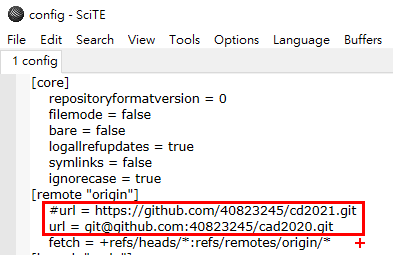
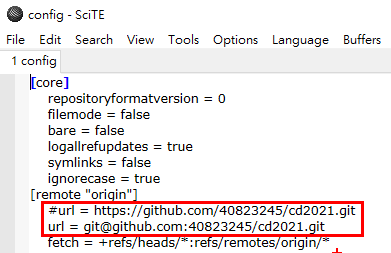
fix page

diff --git a/content/tipuesearch_content.js b/content/tipuesearch_content.js
@@ -1,1 +1,1 @@
-var tipuesearch = {"pages": [{'title': 'About', 'text': '倉儲: https://github.com/40823245/cd2021 \n 二人小組:40823245、40823251 \n', 'tags': '', 'url': 'About.html'}, {'title': 'WORKS', 'text': '', 'tags': '', 'url': 'WORKS.html'}, {'title': '筆記', 'text': '2019~2021所用到的指令、步驟等', 'tags': '', 'url': '筆記.html'}, {'title': '建立網頁', 'text': '打開start_ipv4.bat 確認版本 \n \n \n \n tmp新增git_ref資料夾並在裡面新增git_config.txt git_config.txt內容為git config --global http.proxy http://[2001:288:6004:17::69]:3128 在home_ipv4新增.gitconfig .gitconfig內容為 [http] #proxy = http://[2001:288:6004:17::69]:3128 登入github帳號 新增cd2021 \n \n \n 輸入指令(創資料夾) \n \n 進到cd2021，輸入指令 \n \n 進到cmsimde→up_dir，複製全部(ctrl+A→ctrl+C) \n \n 貼到cd2021，會有重複的檔案選擇第3個 \n \n \n 進到cmsimde \n \n 打pip install flask、pip install flask_cors、pip install lxml、pip install bs4、pip install markdown、pip install pelican、pip install leo指令 載完後輸入python wsgi.py 打開9443，登入(login)輸入密碼(admin) 點config更改title(40823245 cd2021) 自己的學號 做編輯，然後save→generate_pages 進到cd2021 git add . git config user.name "40823245"\xa0 \xa0 \xa0 \xa0 自己的學號 git config user.gmail "40823245@gm.nfu.edu.tw"\xa0 \xa0 \xa0 \xa0 自己的信箱 git commit -m "變更所做的標題" git push(學號和密碼) 到倉儲，點setting \n \n 往下到github pages，更改成main→save \n \n 回到倉儲看是否有出現黃球和綠勾', 'tags': '', 'url': '建立網頁.html'}, {'title': '9443', 'text': '\n 先打指令到cmsimde資料夾 \n 在執行python wsgi.py指令 \n 網址搜尋https://localhost:9443/ \n 或複製黑窗最後一行的網址 \n \n 案login登入→密碼admin', 'tags': '', 'url': '9443.html'}, {'title': '8444', 'text': '先到cd2021資料夾找到http-server.py檔案 \n \n 使用白窗開啟http-server.py \n 點選Tools→go \n', 'tags': '', 'url': '8444.html'}, {'title': 'ssh', 'text': '點選資料夾的Portablegit →bin→sh.exe \n \n 輸入ssh-keygen -t rsa -b 4096 -C "40823245" \n 請自行改成自己的學號 \n 案enter →輸入/y/tmp/id_rsa→案2次enter \n \n 下載putty_home、GitExtensions (請自行更改路徑) \n 將start_ipv4.bat移到白窗\xa0 並新增\xa0 \n set GIT_HOME=%Disk%:\\Portablegit\\bin\\\nset GIT_SSH=%Disk%:\\putty\\plink.exe \n \n 打開.git資料夾，把config移到白窗 \n 如沒有.git資料夾 打開隱藏的項目 \n \n 新增[remote "origin"]裡的url = git@github.com:40823245/cad2020.git \n \n file→save \n 打開putty資料夾的puttygen.exe \n 點load，找到id_rsa \n \n 案是→Save private key→案是→輸入學號(存.ppk檔) \n 打開putty.exe \n \n 若沒有github.com，在Host Name和Save Sessions打 github.com案Save \n \n 設定proxy(使用自家網路、手機網路請選None) \n 看你的網路連到哪一台 就打一樣的proxy \n \n 打開SSH裡面的Auth \n 選擇你所生產的金鑰檔案(.ppk) \n 回到session點選save再open \n \n 在home_ipv4新增.ssh資料夾 \n ProxyCommand y:/putty/plink.exe github.com %h %p\n  \nHost github.com\n    User git\n    Port 22\n    Hostname github.com\n  \n    TCPKeepAlive yes\n    IdentitiesOnly yes \n 將上面的指令複製到白窗並另存config \n 到倉儲網頁新增金鑰(右上Settings) \n \n 點New SSH key \n 到tmp找到id_rsa.pub並用白窗開啟，複製內容到Key \n 並確認學號 \n \n 案Add SSH key', 'tags': '', 'url': 'ssh.html'}, {'title': '上傳', 'text': '', 'tags': '', 'url': '上傳.html'}, {'title': 'Zoomit', 'text': '', 'tags': '', 'url': 'Zoomit.html'}]};
+var tipuesearch = {"pages": [{'title': 'About', 'text': '倉儲: https://github.com/40823245/cd2021 \n 二人小組:40823245、40823251 \n', 'tags': '', 'url': 'About.html'}, {'title': 'WORKS', 'text': '', 'tags': '', 'url': 'WORKS.html'}, {'title': '筆記', 'text': '2019~2021所用到的指令、步驟等', 'tags': '', 'url': '筆記.html'}, {'title': '建立網頁', 'text': '打開start_ipv4.bat 確認版本 \n \n \n \n tmp新增git_ref資料夾並在裡面新增git_config.txt git_config.txt內容為git config --global http.proxy http://[2001:288:6004:17::69]:3128 在home_ipv4新增.gitconfig .gitconfig內容為 [http] #proxy = http://[2001:288:6004:17::69]:3128 登入github帳號 新增cd2021 \n \n \n 輸入指令(創資料夾) \n \n 進到cd2021，輸入指令 \n \n 進到cmsimde→up_dir，複製全部(ctrl+A→ctrl+C) \n \n 貼到cd2021，會有重複的檔案選擇第3個 \n \n \n 進到cmsimde \n \n 打pip install flask、pip install flask_cors、pip install lxml、pip install bs4、pip install markdown、pip install pelican、pip install leo指令 載完後輸入python wsgi.py 打開9443，登入(login)輸入密碼(admin) 點config更改title(40823245 cd2021) 自己的學號 做編輯，然後save→generate_pages 進到cd2021 git add . git config user.name "40823245"\xa0 \xa0 \xa0 \xa0 自己的學號 git config user.gmail "40823245@gm.nfu.edu.tw"\xa0 \xa0 \xa0 \xa0 自己的信箱 git commit -m "變更所做的標題" git push(學號和密碼) 到倉儲，點setting \n \n 往下到github pages，更改成main→save \n \n 回到倉儲看是否有出現黃球和綠勾', 'tags': '', 'url': '建立網頁.html'}, {'title': '9443', 'text': '\n 先打指令到cmsimde資料夾 \n 在執行python wsgi.py指令 \n 網址搜尋https://localhost:9443/ \n 或複製黑窗最後一行的網址 \n \n 案login登入→密碼admin', 'tags': '', 'url': '9443.html'}, {'title': '8444', 'text': '先到cd2021資料夾找到http-server.py檔案 \n \n 使用白窗開啟http-server.py \n 點選Tools→go \n', 'tags': '', 'url': '8444.html'}, {'title': 'ssh', 'text': '點選資料夾的Portablegit →bin→sh.exe \n \n 輸入ssh-keygen -t rsa -b 4096 -C "40823245" \n 請自行改成自己的學號 \n 案enter →輸入/y/tmp/id_rsa→案2次enter \n \n 下載putty_home、GitExtensions (請自行更改路徑) \n 將start_ipv4.bat移到白窗\xa0 並新增\xa0 \n set GIT_HOME=%Disk%:\\Portablegit\\bin\\\nset GIT_SSH=%Disk%:\\putty\\plink.exe \n \n 打開.git資料夾，把config移到白窗 \n 如沒有.git資料夾 打開隱藏的項目 \n \n 新增[remote "origin"]裡的url = git@github.com:40823245/cd2021.git \n \n file→save \n 打開putty資料夾的puttygen.exe \n 點load，找到id_rsa \n \n 案是→Save private key→案是→輸入學號(存.ppk檔) \n 打開putty.exe \n \n 若沒有github.com，在Host Name和Save Sessions打 github.com案Save \n \n 設定proxy(使用自家網路、手機網路請選None) \n 看你的網路連到哪一台 就打一樣的proxy \n \n 打開SSH裡面的Auth \n 選擇你所生產的金鑰檔案(.ppk) \n 回到session點選save再open \n \n 在home_ipv4新增.ssh資料夾 \n ProxyCommand y:/putty/plink.exe github.com %h %p\n  \nHost github.com\n    User git\n    Port 22\n    Hostname github.com\n  \n    TCPKeepAlive yes\n    IdentitiesOnly yes \n 將上面的指令複製到白窗並另存config \n 到倉儲網頁新增金鑰(右上Settings) \n \n 點New SSH key \n 到tmp找到id_rsa.pub並用白窗開啟，複製內容到Key \n 並確認學號 \n \n 案Add SSH key', 'tags': '', 'url': 'ssh.html'}, {'title': '上傳', 'text': '', 'tags': '', 'url': '上傳.html'}, {'title': 'Zoomit', 'text': '', 'tags': '', 'url': 'Zoomit.html'}]};

diff --git a/config/content_backup.htm b/config/content_backup.htm
@@ -39,5 +39,54 @@
 <h4>使用白窗開啟http-server.py</h4>
 <h4>點選Tools→go</h4>
 <p><img alt="" height="350" src="/images/8444-1.png" width="500"/></p><h2>ssh</h2>
-<h2>上傳</h2>
+<h4><span>點選資料夾的Portablegit</span><span>→bin→sh.exe</span></h4>
+<p><span><img alt="" height="300" src="/images/ssh.png" width="600"/></span></p>
+<h4>輸入ssh-keygen -t rsa -b 4096 -C "40823245"</h4>
+<h4><span style="color: #ff0000;">請自行改成自己的學號</span></h4>
+<h4>案enter<span>→輸入/y/tmp/id_rsa→案2次enter</span></h4>
+<p><span><img alt="" height="450" src="/images/ssh-1.png" width="600"/></span></p>
+<h4>下載putty_home、GitExtensions<span style="color: #ff0000;">(請自行更改路徑)</span></h4>
+<h4>將start_ipv4.bat移到白窗  並新增 </h4>
+<pre class="brush:html;auto-links:false;toolbar:false" contenteditable="false">set GIT_HOME=%Disk%:\Portablegit\bin\
+set GIT_SSH=%Disk%:\putty\plink.exe</pre>
+<p><img alt="" height="650" src="/images/ssh-2.png" width="500"/></p>
+<h4>打開.git資料夾，把config移到白窗</h4>
+<h4>如沒有.git資料夾 打開隱藏的項目</h4>
+<p><img alt="" height="600" src="/images/ssh-3.png" width="850"/></p>
+<h4>新增[remote "origin"]裡的url = git@github.com:40823245/cad2020.git</h4>
+<p><img alt="" height="250" src="/images/ssh-4.png" width="350"/></p>
+<h4><span>file→save</span></h4>
+<h4><span>打開putty資料夾的puttygen.exe</span></h4>
+<h4><span>點load，找到id_rsa</span></h4>
+<p><span><img alt="" height="400" src="/images/ssh-5.png" width="700"/></span></p>
+<h4><span>案是→Save private key→案是→輸入學號(存.ppk檔)</span></h4>
+<h4><span>打開putty.exe</span></h4>
+<p><span><img alt="" height="400" src="/images/ssh-6.png" width="400"/></span></p>
+<h4><span>若沒有github.com，在Host Name和Save Sessions打<span>github.com案Save</span></span></h4>
+<p><span><span><img alt="" height="400" src="/images/ssh-7.png" width="400"/></span></span></p>
+<h4>設定proxy(使用自家網路、手機網路請選None)</h4>
+<h4>看你的網路連到哪一台 就打一樣的proxy</h4>
+<p><img alt="" height="400" src="/images/ssh-8.png" width="400"/></p>
+<h4>打開SSH裡面的Auth</h4>
+<h4>選擇你所生產的金鑰檔案(.ppk)</h4>
+<h4>回到session點選save再open</h4>
+<p><img alt="" height="300" src="/images/ssh-9.png" width="350"/></p>
+<h4><span>在home_ipv4新增.ssh資料夾</span></h4>
+<pre class="brush:html;auto-links:false;toolbar:false" contenteditable="false">ProxyCommand y:/putty/plink.exe github.com %h %p
+  
+Host github.com
+    User git
+    Port 22
+    Hostname github.com
+  
+    TCPKeepAlive yes
+    IdentitiesOnly yes</pre>
+<h4>將上面的指令複製到白窗並另存config</h4>
+<h4>到倉儲網頁新增金鑰(右上Settings)</h4>
+<p><img alt="" height="400" src="/images/ssh-10.png" width="900"/></p>
+<h4>點New SSH key</h4>
+<h4>到tmp找到id_rsa.pub並用白窗開啟，複製內容到Key</h4>
+<h4>並確認學號</h4>
+<p><img alt="" height="300" src="/images/ssh-11.png" width="900"/></p>
+<h4><span>案Add SSH key</span></h4><h2>上傳</h2>
 <h2>Zoomit</h2>

diff --git a/content/ssh.html b/content/ssh.html
@@ -148,8 +148,8 @@ set GIT_SSH=%Disk%:\putty\plink.exe</pre>
 <h4>打開.git資料夾，把config移到白窗</h4>
 <h4>如沒有.git資料夾 打開隱藏的項目</h4>
 <p><img alt="" height="600" src="./../images/ssh-3.png" width="850"/></p>
-<h4>新增[remote "origin"]裡的url = git@github.com:40823245/cad2020.git</h4>
-<p><img alt="" height="250" src="./../images/ssh-4.png" width="350"/></p>
+<h4>新增[remote "origin"]裡的url = git@github.com:40823245/cd2021.git</h4>
+<p><img alt="" height="200" src="./../images/ssh-4.png" width="300"/></p>
 <h4><span>file→save</span></h4>
 <h4><span>打開putty資料夾的puttygen.exe</span></h4>
 <h4><span>點load，找到id_rsa</span></h4>

diff --git a/config/content.htm b/config/content.htm
@@ -53,8 +53,8 @@ set GIT_SSH=%Disk%:\putty\plink.exe</pre>
 <h4>打開.git資料夾，把config移到白窗</h4>
 <h4>如沒有.git資料夾 打開隱藏的項目</h4>
 <p><img alt="" height="600" src="/images/ssh-3.png" width="850"/></p>
-<h4>新增[remote "origin"]裡的url = git@github.com:40823245/cad2020.git</h4>
-<p><img alt="" height="250" src="/images/ssh-4.png" width="350"/></p>
+<h4>新增[remote "origin"]裡的url = git@github.com:40823245/cd2021.git</h4>
+<p><img alt="" height="200" src="/images/ssh-4.png" width="300"/></p>
 <h4><span>file→save</span></h4>
 <h4><span>打開putty資料夾的puttygen.exe</span></h4>
 <h4><span>點load，找到id_rsa</span></h4>
